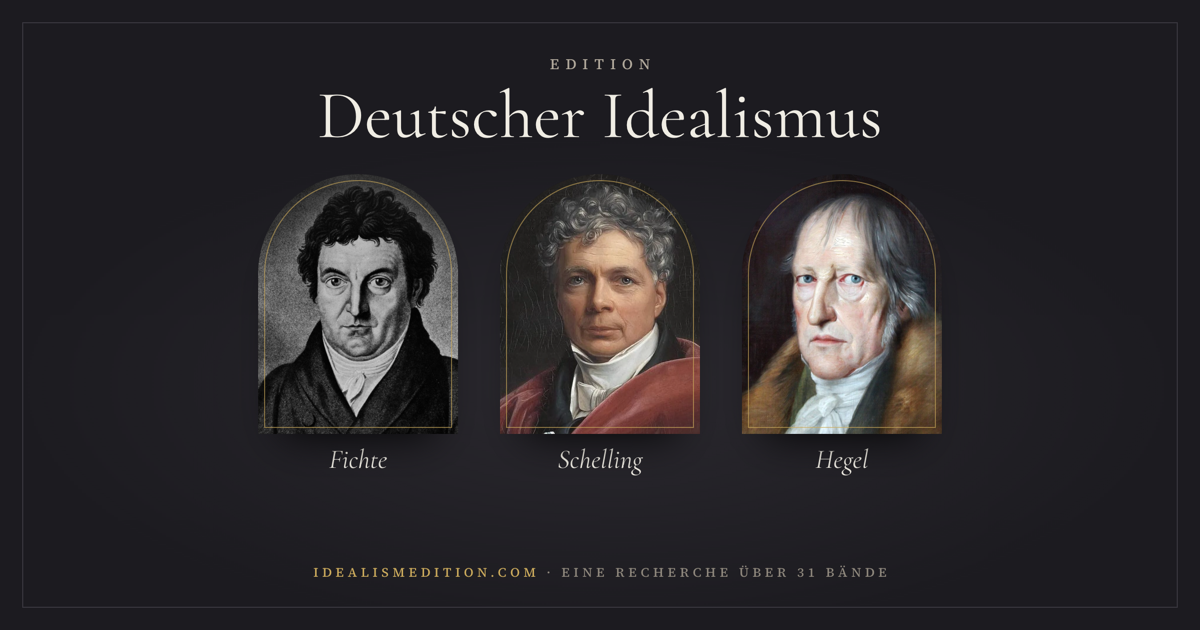
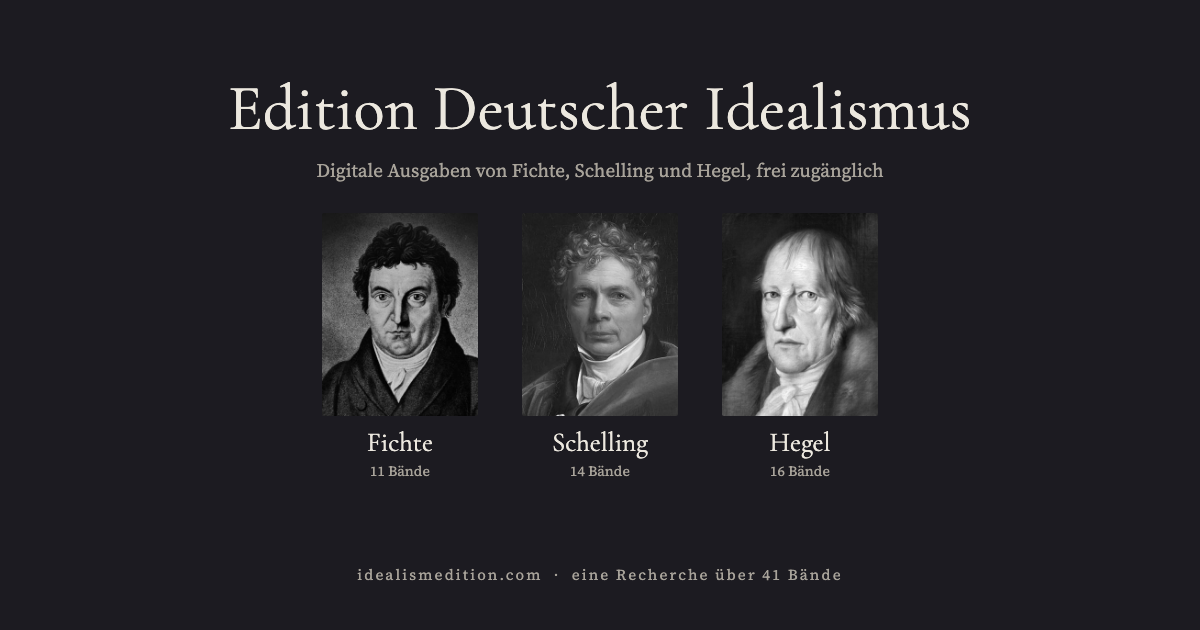
Portal: GW 13 bis 1.1.2027 gesperrt (41 Bände), neues Vorschaubild im schlichten Stil, Facebook-Post Fichte

Changed region(s): [[0.185, 0.0905, 0.8325, 0.754], [0.2775, 0.9048, 0.74, 0.9349]]

diff --git a/site/assets/baende.js b/site/assets/baende.js
@@ -1,3 +1,3 @@
 /* Von werkzeug/sammle.py geschrieben. */
 window.IDEALISMUS_EDITIONEN = {"fichte": {"name": "Fichte", "url": "https://www.fichteedition.com", "ausgabe": "Sämmtliche und Nachgelassene Werke"}, "schelling": {"name": "Schelling", "url": "https://www.schellingedition.com", "ausgabe": "Sämmtliche Werke"}, "hegel": {"name": "Hegel", "url": "https://www.hegeledition.com", "ausgabe": "Gesammelte Werke"}};
-window.HEGEL_EDITION_BAENDE = [{"work": "fsw-1", "sig": "SW I", "title": "Zur theoretischen Philosophie I", "ed": "fichte"}, {"work": "fsw-2", "sig": "SW II", "title": "Zur theoretischen Philosophie II", "ed": "fichte"}, {"work": "fsw-3", "sig": "SW III", "title": "Zur Rechts- und Sittenlehre I", "ed": "fichte"}, {"work": "fsw-4", "sig": "SW IV", "title": "Zur Rechts- und Sittenlehre II", "ed": "fichte"}, {"work": "fsw-5", "sig": "SW V", "title": "Zur Religionsphilosophie", "ed": "fichte"}, {"work": "fsw-6", "sig": "SW VI", "title": "Zur Politik, Moral und Philosophie der Geschichte I", "ed": "fichte"}, {"work": "fsw-7", "sig": "SW VII", "title": "Zur Politik, Moral und Philosophie der Geschichte II", "ed": "fichte"}, {"work": "fsw-8", "sig": "SW VIII", "title": "Vermischte Schriften und Aufsätze", "ed": "fichte"}, {"work": "fnw-1", "sig": "NW I", "title": "Einleitungsvorlesungen in die Wissenschaftslehre · Transcendentale Logik · Thatsachen des Bewusstseins", "ed": "fichte"}, {"work": "fnw-2", "sig": "NW II", "title": "Wissenschaftslehre · System der Rechtslehre", "ed": "fichte"}, {"work": "fnw-3", "sig": "NW III", "title": "System der Sittenlehre · Bestimmung des Gelehrten · Vermischte Aufsätze", "ed": "fichte"}, {"work": "sw-I-01", "sig": "SW I/1", "title": "Jugendschriften", "ed": "schelling"}, {"work": "sw-I-02", "sig": "SW I/2", "title": "Ideen zu einer Philosophie der Natur · Von der Weltseele", "ed": "schelling"}, {"work": "sw-I-03", "sig": "SW I/3", "title": "Naturphilosophie · System des transscendentalen Idealismus", "ed": "schelling"}, {"work": "sw-I-04", "sig": "SW I/4", "title": "Darstellung meines Systems · Bruno", "ed": "schelling"}, {"work": "sw-I-05", "sig": "SW I/5", "title": "Methode des akademischen Studiums · Philosophie der Kunst", "ed": "schelling"}, {"work": "sw-I-06", "sig": "SW I/6", "title": "Philosophie und Religion · System der gesammten Philosophie", "ed": "schelling"}, {"work": "sw-I-07", "sig": "SW I/7", "title": "Freiheitsschrift · Stuttgarter Privatvorlesungen", "ed": "schelling"}, {"work": "sw-I-08", "sig": "SW I/8", "title": "Denkmal Jacobi · Weltalter · Samothrake", "ed": "schelling"}, {"work": "sw-I-09", "sig": "SW I/9", "title": "Schriften und Vorträge", "ed": "schelling"}, {"work": "sw-I-10", "sig": "SW I/10", "title": "Zur Geschichte der neueren Philosophie", "ed": "schelling"}, {"work": "sw-II-01", "sig": "SW II/1", "title": "Einleitung in die Philosophie der Mythologie", "ed": "schelling"}, {"work": "sw-II-02", "sig": "SW II/2", "title": "Philosophie der Mythologie", "ed": "schelling"}, {"work": "sw-II-03", "sig": "SW II/3", "title": "Philosophie der Offenbarung, erster Theil", "ed": "schelling"}, {"work": "sw-II-04", "sig": "SW II/4", "title": "Philosophie der Offenbarung, zweiter Theil", "ed": "schelling"}, {"work": "gw-1", "sig": "GW 1", "title": "Frühe Schriften I", "ed": "hegel"}, {"work": "gw-3", "sig": "GW 3", "title": "Frühe Exzerpte (1785–1800)", "ed": "hegel"}, {"work": "gw-4", "sig": "GW 4", "title": "Jenaer Kritische Schriften", "ed": "hegel"}, {"work": "gw-5", "sig": "GW 5", "title": "Schriften und Entwürfe (1799–1808)", "ed": "hegel"}, {"work": "gw-6", "sig": "GW 6", "title": "Jenaer Systementwürfe I (1803/04)", "ed": "hegel"}, {"work": "gw-7", "sig": "GW 7", "title": "Jenaer Systementwürfe II (1804/05)", "ed": "hegel"}, {"work": "gw-8", "sig": "GW 8", "title": "Jenaer Systementwürfe III (1805/06)", "ed": "hegel"}, {"work": "gw-9", "sig": "GW 9", "title": "Phänomenologie des Geistes", "ed": "hegel"}, {"work": "gw-11", "sig": "GW 11", "title": "Wissenschaft der Logik (1812/13)", "ed": "hegel"}, {"work": "gw-12", "sig": "GW 12", "title": "Wissenschaft der Logik (1816)", "ed": "hegel"}, {"work": "gw-13", "sig": "GW 13", "title": "Enzyklopädie der philosophischen Wissenschaften (1817)", "ed": "hegel"}, {"work": "gw-15", "sig": "GW 15", "title": "Schriften und Entwürfe I (1817–1825)", "ed": "hegel"}, {"work": "gw-17", "sig": "GW 17", "title": "Vorlesungsmanuskripte I (1816–1831)", "ed": "hegel"}, {"work": "gw-18", "sig": "GW 18", "title": "Vorlesungsmanuskripte II (1816–1831)", "ed": "hegel"}, {"work": "gw-19", "sig": "GW 19", "title": "Enzyklopädie der philosophischen Wissenschaften (1827)", "ed": "hegel"}, {"work": "gw-20", "sig": "GW 20", "title": "Enzyklopädie der philosophischen Wissenschaften (1830)", "ed": "hegel"}, {"work": "gw-21", "sig": "GW 21", "title": "Wissenschaft der Logik (1832)", "ed": "hegel"}];
+window.HEGEL_EDITION_BAENDE = [{"work": "fsw-1", "sig": "SW I", "title": "Zur theoretischen Philosophie I", "ed": "fichte"}, {"work": "fsw-2", "sig": "SW II", "title": "Zur theoretischen Philosophie II", "ed": "fichte"}, {"work": "fsw-3", "sig": "SW III", "title": "Zur Rechts- und Sittenlehre I", "ed": "fichte"}, {"work": "fsw-4", "sig": "SW IV", "title": "Zur Rechts- und Sittenlehre II", "ed": "fichte"}, {"work": "fsw-5", "sig": "SW V", "title": "Zur Religionsphilosophie", "ed": "fichte"}, {"work": "fsw-6", "sig": "SW VI", "title": "Zur Politik, Moral und Philosophie der Geschichte I", "ed": "fichte"}, {"work": "fsw-7", "sig": "SW VII", "title": "Zur Politik, Moral und Philosophie der Geschichte II", "ed": "fichte"}, {"work": "fsw-8", "sig": "SW VIII", "title": "Vermischte Schriften und Aufsätze", "ed": "fichte"}, {"work": "fnw-1", "sig": "NW I", "title": "Einleitungsvorlesungen in die Wissenschaftslehre · Transcendentale Logik · Thatsachen des Bewusstseins", "ed": "fichte"}, {"work": "fnw-2", "sig": "NW II", "title": "Wissenschaftslehre · System der Rechtslehre", "ed": "fichte"}, {"work": "fnw-3", "sig": "NW III", "title": "System der Sittenlehre · Bestimmung des Gelehrten · Vermischte Aufsätze", "ed": "fichte"}, {"work": "sw-I-01", "sig": "SW I/1", "title": "Jugendschriften", "ed": "schelling"}, {"work": "sw-I-02", "sig": "SW I/2", "title": "Ideen zu einer Philosophie der Natur · Von der Weltseele", "ed": "schelling"}, {"work": "sw-I-03", "sig": "SW I/3", "title": "Naturphilosophie · System des transscendentalen Idealismus", "ed": "schelling"}, {"work": "sw-I-04", "sig": "SW I/4", "title": "Darstellung meines Systems · Bruno", "ed": "schelling"}, {"work": "sw-I-05", "sig": "SW I/5", "title": "Methode des akademischen Studiums · Philosophie der Kunst", "ed": "schelling"}, {"work": "sw-I-06", "sig": "SW I/6", "title": "Philosophie und Religion · System der gesammten Philosophie", "ed": "schelling"}, {"work": "sw-I-07", "sig": "SW I/7", "title": "Freiheitsschrift · Stuttgarter Privatvorlesungen", "ed": "schelling"}, {"work": "sw-I-08", "sig": "SW I/8", "title": "Denkmal Jacobi · Weltalter · Samothrake", "ed": "schelling"}, {"work": "sw-I-09", "sig": "SW I/9", "title": "Schriften und Vorträge", "ed": "schelling"}, {"work": "sw-I-10", "sig": "SW I/10", "title": "Zur Geschichte der neueren Philosophie", "ed": "schelling"}, {"work": "sw-II-01", "sig": "SW II/1", "title": "Einleitung in die Philosophie der Mythologie", "ed": "schelling"}, {"work": "sw-II-02", "sig": "SW II/2", "title": "Philosophie der Mythologie", "ed": "schelling"}, {"work": "sw-II-03", "sig": "SW II/3", "title": "Philosophie der Offenbarung, erster Theil", "ed": "schelling"}, {"work": "sw-II-04", "sig": "SW II/4", "title": "Philosophie der Offenbarung, zweiter Theil", "ed": "schelling"}, {"work": "gw-1", "sig": "GW 1", "title": "Frühe Schriften I", "ed": "hegel"}, {"work": "gw-3", "sig": "GW 3", "title": "Frühe Exzerpte (1785–1800)", "ed": "hegel"}, {"work": "gw-4", "sig": "GW 4", "title": "Jenaer Kritische Schriften", "ed": "hegel"}, {"work": "gw-5", "sig": "GW 5", "title": "Schriften und Entwürfe (1799–1808)", "ed": "hegel"}, {"work": "gw-6", "sig": "GW 6", "title": "Jenaer Systementwürfe I (1803/04)", "ed": "hegel"}, {"work": "gw-7", "sig": "GW 7", "title": "Jenaer Systementwürfe II (1804/05)", "ed": "hegel"}, {"work": "gw-8", "sig": "GW 8", "title": "Jenaer Systementwürfe III (1805/06)", "ed": "hegel"}, {"work": "gw-9", "sig": "GW 9", "title": "Phänomenologie des Geistes", "ed": "hegel"}, {"work": "gw-11", "sig": "GW 11", "title": "Wissenschaft der Logik (1812/13)", "ed": "hegel"}, {"work": "gw-12", "sig": "GW 12", "title": "Wissenschaft der Logik (1816)", "ed": "hegel"}, {"work": "gw-15", "sig": "GW 15", "title": "Schriften und Entwürfe I (1817–1825)", "ed": "hegel"}, {"work": "gw-17", "sig": "GW 17", "title": "Vorlesungsmanuskripte I (1816–1831)", "ed": "hegel"}, {"work": "gw-18", "sig": "GW 18", "title": "Vorlesungsmanuskripte II (1816–1831)", "ed": "hegel"}, {"work": "gw-19", "sig": "GW 19", "title": "Enzyklopädie der philosophischen Wissenschaften (1827)", "ed": "hegel"}, {"work": "gw-20", "sig": "GW 20", "title": "Enzyklopädie der philosophischen Wissenschaften (1830)", "ed": "hegel"}, {"work": "gw-21", "sig": "GW 21", "title": "Wissenschaft der Logik (1832)", "ed": "hegel"}];

diff --git a/texte/facebook-fichte-idealismus-bild.html b/texte/facebook-fichte-idealismus-bild.html
@@ -1,0 +1,26 @@
+<!doctype html><html lang="de"><meta charset="utf-8"><style>
+@font-face{font-family:C;src:url(/Users/giulianoinfantino/idealismus/site/assets/fonts/CormorantGaramond-400-latin.woff2)}
+@font-face{font-family:Ci;src:url(/Users/giulianoinfantino/idealismus/site/assets/fonts/CormorantGaramond-400-italic-latin.woff2)}
+@font-face{font-family:S;src:url(/Users/giulianoinfantino/idealismus/site/assets/fonts/SourceSerif4-Variable-roman.woff2)}
+html,body{margin:0;width:1200px;height:630px;background:#1c1b21;color:#ece8df}
+body{display:flex;flex-direction:column;align-items:center;justify-content:flex-start;padding-top:52px;box-sizing:border-box;font-family:S}
+h1{font-family:C;font-weight:400;font-size:64px;margin:0;letter-spacing:.005em}
+.unter{font-size:19px;color:#a8a39a;margin:10px 0 0}
+.drei{display:flex;gap:44px;margin-top:30px}
+figure{margin:0;text-align:center}
+img{width:156px;height:203px;object-fit:cover;filter:grayscale(1);border-radius:2px;display:block}
+figcaption{font-family:C;font-size:27px;margin-top:10px}
+figcaption span{display:block;font-family:S;font-size:14px;color:#a8a39a;margin-top:2px}
+.neu{font-size:15px;letter-spacing:.22em;text-transform:uppercase;color:#c9a96a;margin:0 0 16px}
+.fuss{position:absolute;bottom:30px;font-size:15px;letter-spacing:.14em;color:#a8a39a}
+</style><body>
+<p class="neu">Neu: Fichte, 11 Bände</p>
+<h1>Edition Deutscher Idealismus</h1>
+<p class="unter">Digitale Ausgaben von Fichte, Schelling und Hegel, frei zugänglich</p>
+<div class="drei">
+<figure><img src="/Users/giulianoinfantino/idealismus/site/assets/bildnisse/fichte.jpg"><figcaption>Fichte<span>11 Bände</span></figcaption></figure>
+<figure><img src="/Users/giulianoinfantino/idealismus/site/assets/bildnisse/schelling.jpg"><figcaption>Schelling<span>14 Bände</span></figcaption></figure>
+<figure><img src="/Users/giulianoinfantino/idealismus/site/assets/bildnisse/hegel.jpg"><figcaption>Hegel<span>16 Bände</span></figcaption></figure>
+</div>
+<p class="fuss">fichteedition.com &nbsp;·&nbsp; idealismedition.com</p>
+</body></html>

diff --git a/site/index.html b/site/index.html
@@ -70,11 +70,11 @@
     <a class="p-bild" href="https://www.hegeledition.com/">
       <picture><source type="image/webp" srcset="assets/bildnisse/hegel.webp 1x, assets/bildnisse/hegel@2x.webp 2x"><img src="assets/bildnisse/hegel.jpg" width="340" height="442" alt="Georg Wilhelm Friedrich Hegel" decoding="async"></picture>
       <span class="p-wer">Hegel</span>
-      <span class="p-leise">1770–1831<span class="p-trenn"> · </span><span data-baende="hegel">17 Bände</span></span>
+      <span class="p-leise">1770–1831<span class="p-trenn"> · </span><span data-baende="hegel">16 Bände</span></span>
     </a>
   </nav>
   <form class="p-suche" action="recherche" method="get" role="search">
-    <input type="search" name="q" placeholder="In allen 42 Bänden suchen" aria-label="In allen Bänden suchen" spellcheck="false" autocapitalize="off" autocorrect="off">
+    <input type="search" name="q" placeholder="In allen 41 Bänden suchen" aria-label="In allen Bänden suchen" spellcheck="false" autocapitalize="off" autocorrect="off">
     <button type="submit">Suchen</button>
   </form>
 </main>

diff --git a/site/recherche.html b/site/recherche.html
@@ -54,7 +54,7 @@
   <div class="rch-kopf">
     <div class="rch-titel">
       <h1>Recherche</h1>
-      <p class="rch-unter" id="rch-unter">Volltext von Fichte, Schelling und Hegel · 42 Bände</p>
+      <p class="rch-unter" id="rch-unter">Volltext von Fichte, Schelling und Hegel · 41 Bände</p>
     </div>
 
     <form class="rch-feld" id="rch-form" role="search" autocomplete="off">

diff --git a/werkzeug/sammle.py b/werkzeug/sammle.py
@@ -3,7 +3,7 @@
 
 Quellen sind die Ordner, aus denen die Editionen ausgeliefert werden, nie die Arbeitsordner mit gesperrten Baenden:
   Schelling  ~/schelling/site
-  Hegel      ~/hegel-umfrage-wt   (ohne GW 16, das bis 31.12.2026 geschuetzt ist)
+  Hegel      ~/hegel-umfrage-wt   (ohne GW 13 und GW 16, bis 31.12.2026 gesperrt)
 
 Aufruf nach jeder Freigabe einer Edition:  python3 werkzeug/sammle.py
 """
@@ -13,7 +13,7 @@ HOME = pathlib.Path.home()
 P = HOME / 'idealismus'
 S = P / 'site'
 SUCHE = S / 'assets/suche'
-GESPERRT = {'gw-16'}          # § 70 UrhG bis 31.12.2026, siehe Hegel-Edition
+GESPERRT = {'gw-13', 'gw-16'}   # § 70 UrhG bis 31.12.2026 (GW 13: Erscheinen 2000/2001 strittig), siehe Hegel-Edition
 # Die Fichte-Edition (Domain seit 08.11.2026)
 FICHTE_URL = 'https://www.fichteedition.com'
 

diff --git a/texte/facebook-fichte-idealismus.md b/texte/facebook-fichte-idealismus.md
@@ -1,0 +1,39 @@
+# Facebook-Post: Fichte und Edition Deutscher Idealismus
+
+Entwurf vom 08.11.2026. Erst posten, wenn das Portal mit der neuen Recherche in Produktion ist (`~/idealismus/werkzeug/deploy.sh --prod`); sonst fehlen Parallelstellen, Vergleich und „Wer nennt wen“.
+
+Bild: `facebook-fichte-idealismus.png` (1200 × 630, auch für X/Twitter); Quelle zum Neusetzen: `facebook-fichte-idealismus-bild.html`.
+
+---
+
+## Deutsch
+
+Fichte ist online, und die drei Ausgaben haben jetzt ein gemeinsames Dach.
+
+Die Digitale Fichte-Edition gibt die elf Bände wieder, die Fichtes Sohn I. H. Fichte herausgegeben hat: die Sämmtlichen Werke (Berlin 1845–46) und die Nachgelassenen Werke (Bonn 1834–35). Das sind 6 424 Druckseiten, Seite für Seite am Scan geprüft, frei lesbar, durchsuchbar und zitierbar nach Band, Seite und Zeile. Jeder Band liegt auch als TEI-Datei vor.
+
+Unter dem Namen Edition Deutscher Idealismus stehen nun Fichte, Schelling und Hegel nebeneinander, zusammen 41 Bände. Die gemeinsame Recherche sucht in allen dreien zugleich. Sie zeigt nebeneinander, wie oft und in welchem Umfeld die drei einen Begriff gebrauchen. Zu jeder Stelle findet sie Parallelstellen bei den beiden anderen, und sie zeigt, wer wen beim Namen nennt.
+
+Alles ist frei zugänglich, ohne Anmeldung und ohne Bezahlschranke.
+
+Für textkritisches Arbeiten bleibt die J. G. Fichte-Gesamtausgabe der Bayerischen Akademie der Wissenschaften die Grundlage. Die neue digitale Ausgabe macht den Text frei zugänglich, nach dem Fichte bis heute vielfach zitiert wird.
+
+www.fichteedition.com
+www.idealismedition.com
+
+---
+
+## English
+
+Fichte is online, and the three editions now share one roof.
+
+The Digital Fichte Edition presents the eleven volumes edited by Fichte's son, I. H. Fichte: the Sämmtliche Werke (Berlin 1845–46) and the Nachgelassene Werke (Bonn 1834–35). That is 6,424 printed pages, each checked against the scan, free to read, searchable, and citable by volume, page and line. Every volume is also available as a TEI file.
+
+Under the name Edition Deutscher Idealismus, Fichte, Schelling and Hegel now stand side by side: 41 volumes in all. One search runs across all three at once. It shows side by side how often, and in what company, each of them uses a term. For any passage it finds parallels in the other two, and it shows who names whom.
+
+Everything is open, with no login and no paywall.
+
+For text-critical work, the J. G. Fichte-Gesamtausgabe of the Bavarian Academy of Sciences remains the basis. This digital edition makes freely available the text by which Fichte is still widely cited.
+
+www.fichteedition.com
+www.idealismedition.com
